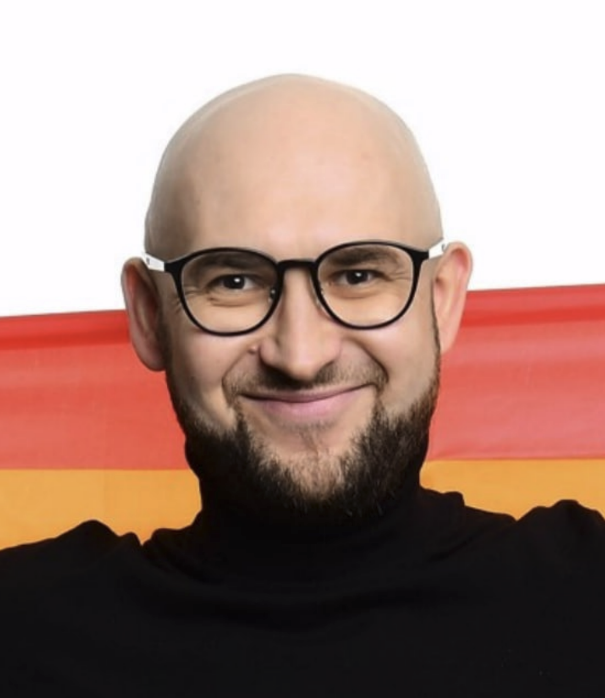
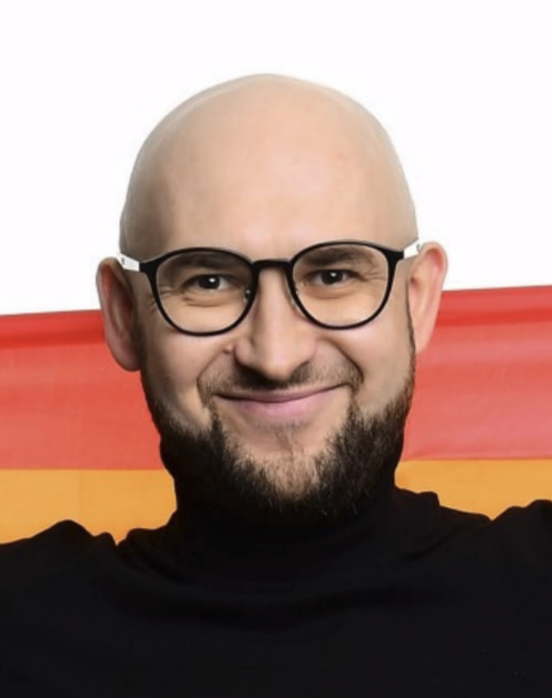
DT-237_fix_PersonalPhotoAboutUs (#117)
* DT-237 fix photo on AboutUS and RSS logo

* DT-237 improve layout AboutUs Page

* DT-237 formatter fix

* DT-237 update Vadzim photo

diff --git a/src/components/form/aboutUS/AboutUSForm.tsx b/src/components/form/aboutUS/AboutUSForm.tsx
@@ -1,5 +1,9 @@
 import style from 'src/components/form/aboutUS/AboutUSForm.module.scss';
 import { PersonalCard } from 'src/components/teamcards/TeamCards.tsx';
+import rsslogo from 'src/public/rs_school_js.svg';
+import vadzimPhoto from 'src/public/DreamTeam/Vadzim.png';
+import margoPhoto from 'src/public/DreamTeam/MargoLIn.png';
+import mariaPhoto from 'src/public/DreamTeam/Maria.png';
 
 export const AboutUS: React.FC = () => {
   return (
@@ -7,7 +11,7 @@ export const AboutUS: React.FC = () => {
       <header className={style.header}>
         <div className={style.rsslogo}>
           <a href="https://rs.school/" target="_blank" rel="noreferrer">
-            <img src="src/public/rs_school_js.svg" alt="rss logo" />
+            <img src={rsslogo} alt="rss logo" />
           </a>
         </div>
         <h1>About Us - Dream Team</h1>
@@ -38,7 +42,7 @@ export const AboutUS: React.FC = () => {
           </ul>
         </div>
         <PersonalCard
-          photo="src/public/DreamTeam/Vadzim.png"
+          photo={vadzimPhoto}
           name="Vadzim Tsikhaniuk"
           title="TeamLead / Junior FE"
           biography="I am passionate about frontend development and eager to gain experience working on real projects within a team. I am studying JavaScript through RSSchool and ChatGPT, while also learning English and Polish. Every day, I acquire new knowledge and look to the future with optimism."
@@ -49,7 +53,7 @@ export const AboutUS: React.FC = () => {
           ideas=""
         />
         <PersonalCard
-          photo="src/public/DreamTeam/MargoLIn.png"
+          photo={margoPhoto}
           name="Margarita Masko"
           title="Junior FE Developer"
           biography="I am a budding frontend developer. This field has captured my heart. After completing courses in UX/UI design, I decided to bring my own website design to life — and that marked the beginning of my journey in development. I am constantly working on improving my skills. Additionally, I am actively studying English to expand my professional horizons and enhance my communication skills."
@@ -60,7 +64,7 @@ export const AboutUS: React.FC = () => {
           ideas="React components: Slider, Router"
         />
         <PersonalCard
-          photo="src/public/DreamTeam/Maria.png"
+          photo={mariaPhoto}
           name="Maria Akulova"
           title="Scrum Master / Junior FE Developer"
           biography="With 18 years of diverse IT experience, I have held roles ranging from Junior Java Developer to Lead Manual QA, Lead Automation QA, and QA Manager. I am certified as a ScrumMaster, Product Owner, and in SAFe and ISTQB, and have not completed Project Management courses. I am now pursuing a position as a Junior Frontend Developer to bring my extensive background and dedication to a new area of expertise."

diff --git a/src/components/form/aboutUS/AboutUSForm.module.scss b/src/components/form/aboutUS/AboutUSForm.module.scss
@@ -4,12 +4,23 @@
   flex-wrap: wrap;
   justify-content: center;
   align-items: center;
-  width: 100%;
   > p,
   ul {
-    width: 75%;
     font-size: 2rem;
   }
+}
+
+.about_team {
+  max-width: 1200px;
+  margin: 20px 10px;
+  padding: 20px 10px;
+  font-family: 'Arial', sans-serif;
+  font-size: 1.3rem;
+  line-height: 1.6;
+  text-align: justify;
+  color: #333;
+  border-radius: 10px;
+  box-shadow: 0 4px 8px rgba(0, 0, 0, 0.1);
 }
 
 .header {
@@ -17,7 +28,6 @@
   flex-direction: row;
   flex-wrap: wrap;
   margin: 0 15px 0 15px;
-  justify-content: space-around;
   font-size: 3rem;
 
   .rsslogo {
@@ -35,8 +45,6 @@
   justify-content: space-around;
   align-items: flex-start;
   flex-wrap: wrap;
-
-  width: 100%;
 
   > .technology {
     width: auto;

diff --git a/src/components/form/cart/CartCustomer.tsx b/src/components/form/cart/CartCustomer.tsx
@@ -8,7 +8,6 @@ import { Message } from 'src/components/cartMessage/CartMessage.tsx';
 import Modal from 'src/components/modalWindow/confirmationModal.tsx';
 import Spinner from 'src/components/lazyLoad/Spinner.tsx';
 
-
 export const CartCustomer: React.FC = () => {
   const [cartItems, setCartItems] = useState<LineItem[]>([]);
   const [originalTotalPrice, setOriginalTotalPrice] = useState<number>(0);
